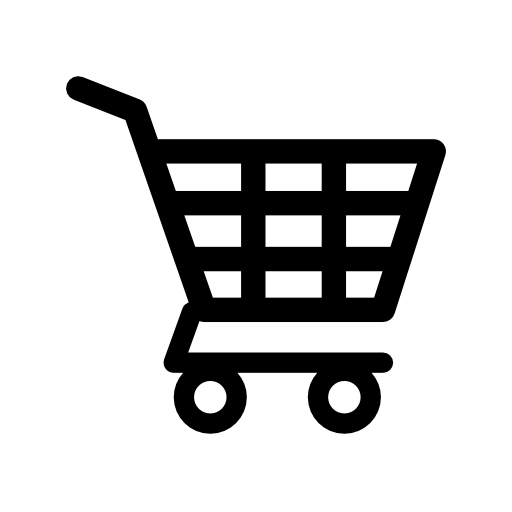
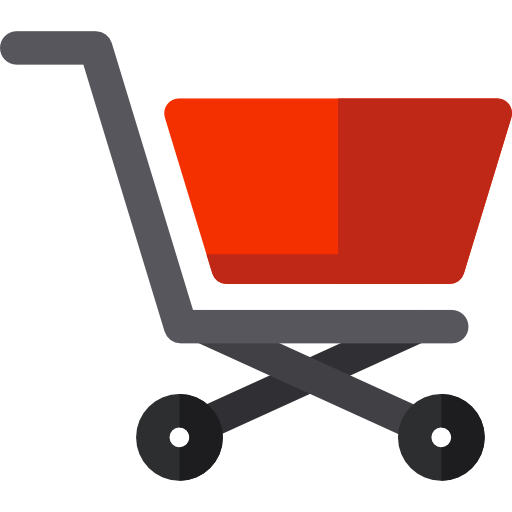
Adding Cart

diff --git a/src/Cart/CartItem.js b/src/Cart/CartItem.js
@@ -1,0 +1,38 @@
+import React, { Component } from 'react';
+
+class CartItem extends Component {
+    render() {
+        return(
+            <div className="row my-2 text-capitalize text-center">
+                <div className="col-10 mx-auto col-lg-2">
+                    {/* <img src={img} className="img-fluid" alt="product" height="50" width="50" /> */}
+                </div>
+                <div className="col-10 mx-auto col-lg-2">
+                    <span className="d-lg-none">sản phẩm : </span> tên sản phẩm
+                </div>
+                <div className="col-10 mx-auto col-lg-2">
+                    <span className="d-lg-none">giá : </span> đơn giá
+                </div>
+                <div className="col-10 mx-auto col-lg-2 my-2 my-lg-0">
+                    <div className="d-flex justify-content-center">
+                        <div>
+                            <span className="btn btn-black mx-1">-</span>
+                            <span className="btn btn-black mx-1"></span>
+                            <span className="btn btn-black mx-1">+</span>
+                        </div>
+                    </div>
+                </div>
+                <div className="col-10 mx-auto col-lg-2">
+                    <div className="cart-icon">
+                        <i className="fas fa-trash" />
+                    </div>
+                </div>
+                <div className="col-10 mx-auto col-lg-2">
+                    <strong>tổng: $  </strong>
+                </div>
+            </div>
+        );
+    }
+}
+
+export default CartItem;

diff --git a/src/Details.js b/src/Details.js
@@ -12,17 +12,17 @@ class Details extends Component {
                 </div>
                 <div className="row">
                     <div className="col-10 mx-auto col-md-6 my-3 text-capitalize">
-                        {/* <img src={img} className="img-fluid" alt="product" /> */}
+                        {/* <img src={img} className="img-fluid" alt="product" /> */} 
                     </div>
                     <div className="col-10 mx-auto col-md-6 my-3 text-capitalize">
                         <h3>Hãng: </h3>
                         <h3 className="font-weight-bold">Giá: <span>$</span></h3>
                         <h3>Thông tin về sản phẩm:</h3><p className="text-muted">Info</p>
                         <div>
-                            <Link to="/">
-                                <button className="btp-btn">Tiếp tục mua hàng</button>
-                                <button className="cart-btn" >Thêm vào giỏ hàng</button>
+                            <Link to="/san-pham">
+                                <button className="btn btn-outline-warning">Tiếp tục mua hàng</button>
                             </Link>
+                            <button className="btn btn-outline-primary">Thêm vào giỏ hàng</button>
                     </div>
                     </div>
                 </div>

diff --git a/src/Cart/CartColumns.js b/src/Cart/CartColumns.js
@@ -1,0 +1,32 @@
+import React, { Component } from 'react';
+
+class CartColumns extends Component {
+    render() {
+        return(
+            <div className="container-fluid text-center d-none d-lg-block">
+                <div className="row">
+                    <div className="col-10 mx-auto col-lg-2">
+                        <p className="text-uppercase">Sản phẩm</p>
+                    </div>
+                    <div className="col-10 mx-auto col-lg-2">
+                        <p className="text-uppercase">Tên sản phẩm</p>
+                    </div>
+                    <div className="col-10 mx-auto col-lg-2">
+                        <p className="text-uppercase">giá</p>
+                    </div>
+                    <div className="col-10 mx-auto col-lg-2">
+                        <p className="text-uppercase">số lượng</p>
+                    </div>
+                    <div className="col-10 mx-auto col-lg-2">
+                        <p className="text-uppercase">xoá</p>
+                    </div>
+                    <div className="col-10 mx-auto col-lg-2">
+                        <p className="text-uppercase">Tổng tiền</p>
+                    </div>
+                </div>
+            </div>
+        )
+    }
+}
+
+export default CartColumns;

diff --git a/src/ProductList.js b/src/ProductList.js
@@ -2,6 +2,7 @@ import React, { Component } from 'react';
 import 'bootstrap/dist/css/bootstrap.min.css';
 import './ProductList.css';
 import Axios from 'axios';
+import {Link} from 'react-router-dom';
 
 class ProductList extends Component {
 	constructor(props) {
@@ -25,9 +26,11 @@ class ProductList extends Component {
 			products.map(product => {
 				return (
 					<div className="item col-xs-4 col-lg-4" key={product.id}>
-						<img src={product.img}/>
+						<Link to="/chi-tiet">
+							<img src={product.img}/>
+						</Link>
 						<h4>Price:{product.price}</h4>
-	    				<button className="btn btn-primary">Add to cart</button>
+	    				<button className="btn btn-outline-primary">Add to cart</button>
 					</div>
 				)
 			})
@@ -35,7 +38,7 @@ class ProductList extends Component {
 			<div className="center"></div>
 		)
     return (
-    	<div>
+    	<div className="container py-5">
     		<h2>Sản Phẩm</h2>
     		<div className="container">
     			<div className="row">

diff --git a/src/Cart/CartTotals.js b/src/Cart/CartTotals.js
@@ -1,0 +1,23 @@
+import React, {Component} from 'react';
+
+class CartTotals extends Component {
+    render() {
+        return(
+            <div className="container">
+                <div className="row">
+                    <div className="col-10 mt-2 ml-sm-5 ml-md-auto col-sm-8 text-capitalize text-right">
+                        <button className="btn btn-outline-danger text-uppercase mb-3 px-5" type="button">
+                            clear cart
+                        </button>
+                        <h5>
+                            <span className="text-title">tổng tiền: </span>
+                            <strong>$ </strong>
+                        </h5>
+                    </div>
+                </div>
+            </div>
+        )
+    }
+}
+
+export default CartTotals;

diff --git a/src/Menu.js b/src/Menu.js
@@ -20,7 +20,7 @@ class Menu extends Component {
 							    <a className="nav-link" href="#">GIỚI THIỆU</a>
 							</li>
 							<li className="nav-item">
-							    <Link className="nav-link" to="/list">SẢN PHẨM</Link>
+							    <Link className="nav-link" to="/san-pham">SẢN PHẨM</Link>
 							</li>
 							<li className="nav-item dropdown">
 							    <a className="nav-link dropdown-toggle" data-toggle="dropdown" href="#"
@@ -36,7 +36,7 @@ class Menu extends Component {
 							</li>
 							<li className="nav-item">
 							    <Link className="nav-link" to="/gio-hang">
-							    <img src={cart} alt="cart" height="20" width="25"/>
+							    <img src={cart} alt="cart" height="25" width="25"/>
 							    </Link>
 							</li>
 						</ul>

diff --git a/src/Cart/Cart.js b/src/Cart/Cart.js
@@ -2,13 +2,18 @@ import React, { Component } from 'react';
 import 'bootstrap/dist/css/bootstrap.min.css';
 import 'bootstrap/dist/js/bootstrap.min.js';
 import $ from "jquery";
+import CartColumns from './CartColumns';
+import CartList from './CartList';
+import CartTotals from './CartTotals';
 
 class Cart extends Component {
     render() {
         return(
             <div>
-	            <div className="container">
-	                <h1>This is Cart</h1>
+	            <div className="container py-5">
+	                <CartColumns />
+                    <CartList />
+                    <CartTotals />
 	            </div>
             </div>
         );

diff --git a/src/Home.js b/src/Home.js
@@ -4,7 +4,7 @@ import Header from './Header';
 import Menu from './Menu';
 import Slide from './Slide';
 import Footer from './Footer';
-import Cart from './Cart';
+import Cart from './Cart/Cart';
 import Details from './Details';
 import ProductList from './ProductList';
 
@@ -19,7 +19,7 @@ class Home extends Component {
 						<Route exact path="/" component={Slide} />
 						<Route path="/gio-hang" component={Cart} />
 						<Route path="/chi-tiet" component={Details} />
-						<Route path="/list" component={ProductList}/>
+						<Route path="/san-pham" component={ProductList}/>
 					</Switch>
 					<Footer/>
 				</React.Fragment>

diff --git a/public/index.html b/public/index.html
@@ -22,7 +22,7 @@
       work correctly both with client-side routing and a non-root public URL.
       Learn how to configure a non-root public URL by running `npm run build`.
     -->
-    <title>React App</title>
+    <title>Football Store</title>
   </head>
   <body>
     <noscript>You need to enable JavaScript to run this app.</noscript>

diff --git a/src/Cart/CartList.js b/src/Cart/CartList.js
@@ -1,0 +1,14 @@
+import React, {Component} from 'react';
+import CartItem from './CartItem';
+
+class CartList extends Component {
+    render() {
+        return(
+            <div className="container">
+                <CartItem />
+            </div>
+        )
+    }
+}
+
+export default CartList;
